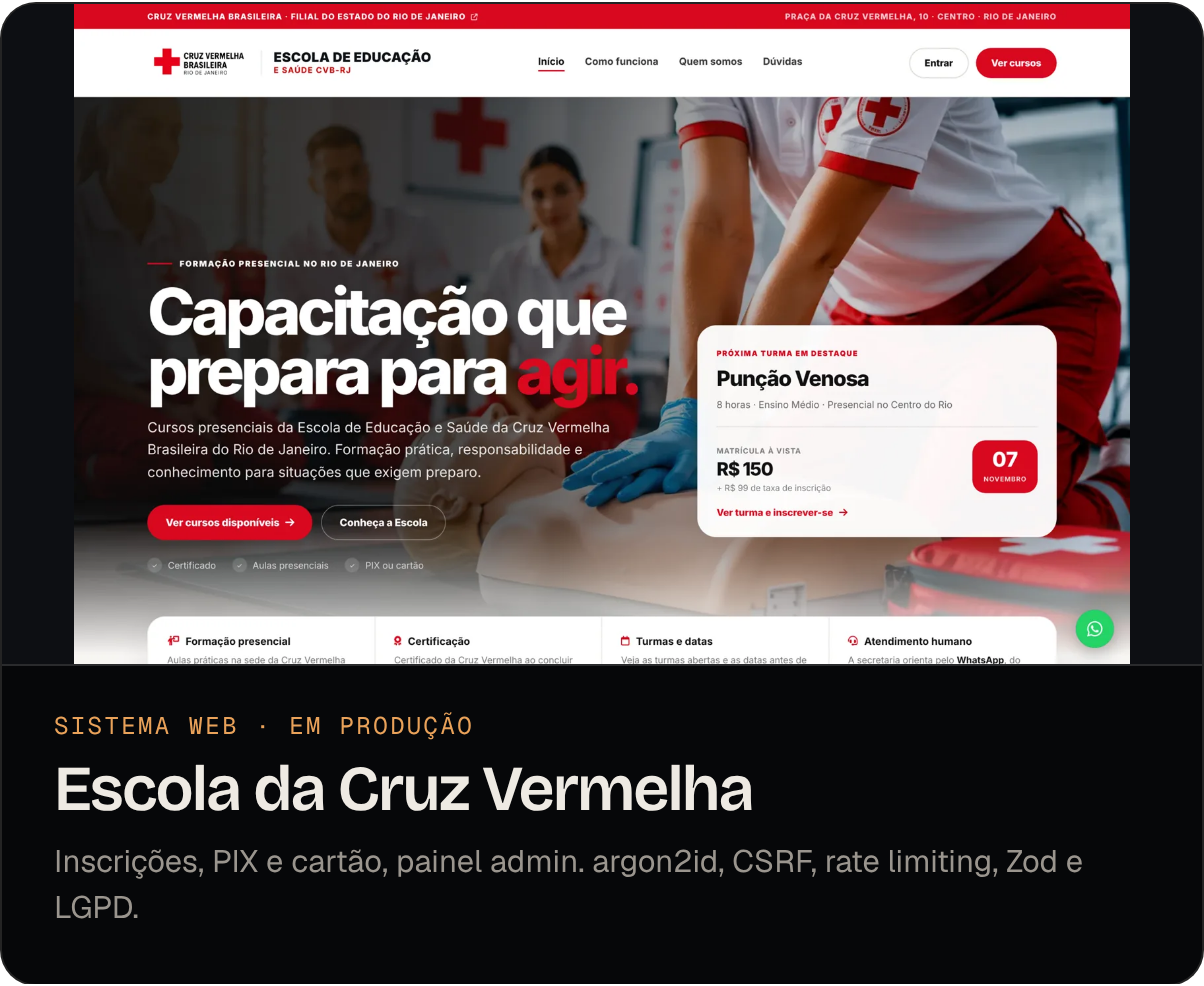
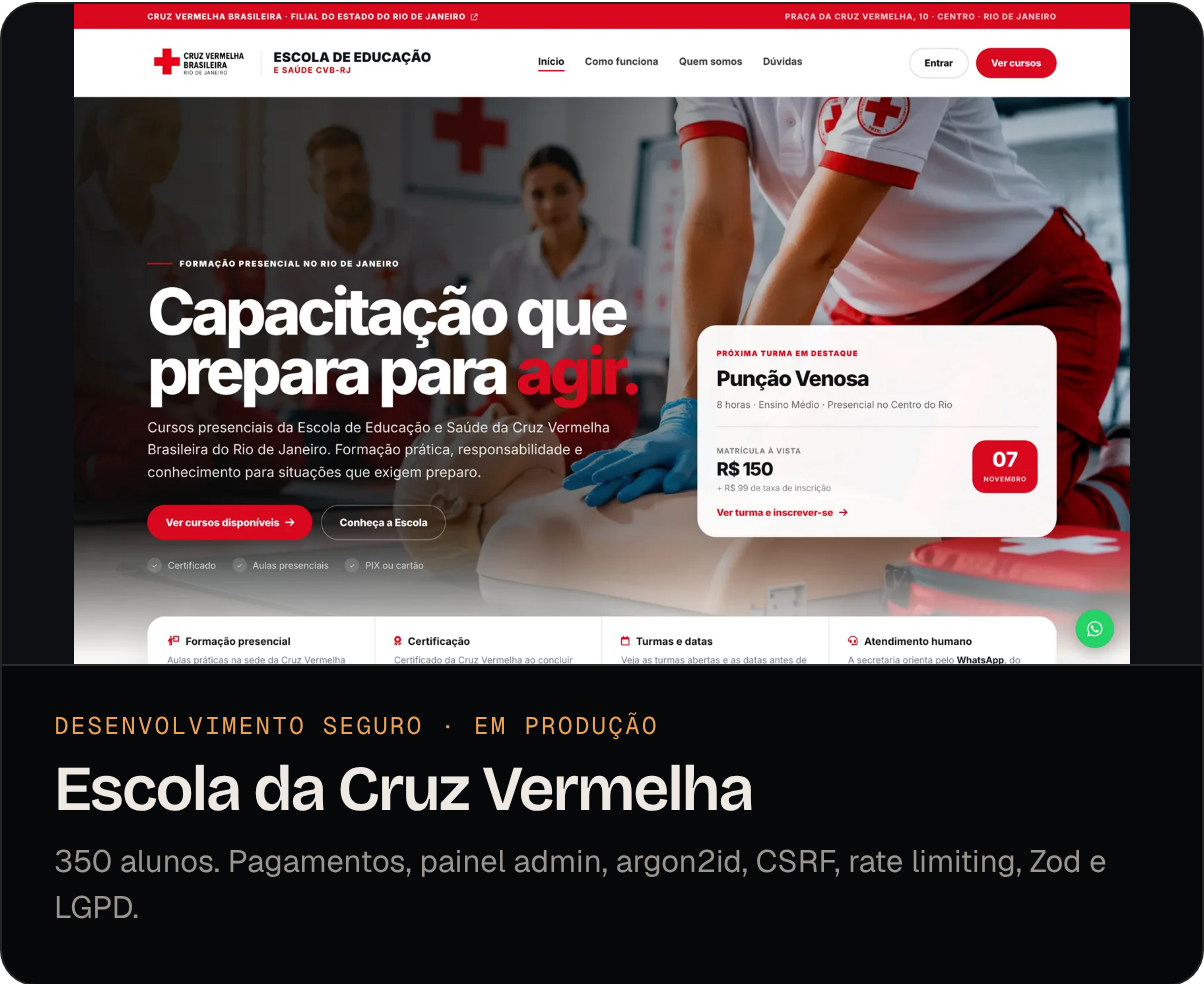
Perfil: 350 alunos e projetos ordenados por impacto para vagas de segurança
Claude-Session: https://claude.ai/code/session_01UDcAPx69xnKHua3GQitQTT

Changed region(s): [[0.0307, 0.8519, 0.9219, 0.9128], [0.0307, 0.7302, 0.5532, 0.7606]]

diff --git a/README.md b/README.md
@@ -13,21 +13,21 @@ Engenheiro de software formado na **University of Canberra**, com ênfase em cib
 
 **Procuro:** vaga de Analista de Segurança da Informação Jr. (SOC N1) ou de Infraestrutura e Segurança, com foco em monitoramento, triagem de eventos e hardening de Windows e Linux. Sigo aceitando projetos web como freelancer.
 
-<img alt="L2/L3: rede segmentada com IAM e CFTV IP · CVE: correlação automática via NVD/NIST · 4,2 s de latência no robô De Niro · EN: inglês fluente" src="assets/ui/numeros.png" width="100%">
+<img alt="350 alunos em sistema seguro em produção · L2/L3: rede segmentada com IAM e CFTV IP · CVE: correlação automática via NVD/NIST · EN: inglês fluente" src="assets/ui/numeros.png" width="100%">
 
 ## Projetos
 
 <p>
+  <a href="https://escola.cursoscruzvermelha.org"><img alt="Sistema da Escola da Cruz Vermelha: 350 alunos, desenvolvimento seguro em produção" src="assets/cards/cvb.png" width="49%"></a>
   <a href="https://github.com/matheusnsp/NetScan"><img alt="NetScan: reconhecimento para pentest em Python" src="assets/cards/netscan.png" width="49%"></a>
-  <a href="https://escola.cursoscruzvermelha.org"><img alt="Sistema da Escola da Cruz Vermelha, em produção" src="assets/cards/cvb.png" width="49%"></a>
 </p>
 <p>
   <a href="https://www.matheusnsp.com.br/A3_Report.pdf"><img alt="Rede corporativa segura com Windows, Linux e Cisco" src="assets/cards/infra.png" width="49%"></a>
   <a href="https://github.com/matheusnsp/Dash"><img alt="Dash: finanças pessoais com Row Level Security" src="assets/cards/dash.png" width="49%"></a>
 </p>
 <p>
-  <a href="https://www.catiapoggian.com"><img alt="Site da Catia Poggian" src="assets/cards/catia.png" width="49%"></a>
   <a href="https://github.com/matheusnsp/Portfolio"><img alt="Este portfólio, com retrato em partículas" src="assets/cards/portfolio.png" width="49%"></a>
+  <a href="https://www.catiapoggian.com"><img alt="Site da Catia Poggian" src="assets/cards/catia.png" width="49%"></a>
 </p>
 
 ## Trajetória
@@ -35,7 +35,7 @@ Engenheiro de software formado na **University of Canberra**, com ênfase em cib
 **Coordenador de Infraestrutura e Segurança (voluntário)** · Cruz Vermelha Brasileira, Rio de Janeiro · *fev 2026 – agora*
 - Auditoria do parque tecnológico, controle de ativos e sanitização segura de HDDs
 - Expansão e segmentação da rede (L2/L3), monitoramento remoto e CFTV IP com políticas de IAM
-- Sistema de gestão da Escola de Capacitação com desenvolvimento seguro e adequação à LGPD
+- Sistema de gestão da Escola de Capacitação, com desenvolvimento seguro e adequação à LGPD, em produção com 350 alunos
 
 **Estagiário de IA e Robótica** · University of Canberra, Austrália · *jul – nov 2024*
 - Plataforma com GPT-4, Whisper e ElevenLabs para um robô de teatro, latência de 7,5 s para 4,2 s
@@ -61,7 +61,7 @@ Software engineer who graduated from the **University of Canberra** with a focus
 
 **Looking for:** a Junior Information Security Analyst (SOC L1) or Infrastructure & Security role, focused on monitoring, event triage and Windows/Linux hardening. I also take on freelance web projects.
 
-- **Infrastructure & Security Coordinator (Volunteer)**, Brazilian Red Cross, Rio de Janeiro (Feb 2026 – present): hardware audit, secure HDD sanitization, L2/L3 segmentation, IAM policies and IP CCTV; built the training school's management system with argon2id, CSRF protection, rate limiting, Zod validation, role-based access and LGPD compliance.
+- **Infrastructure & Security Coordinator (Volunteer)**, Brazilian Red Cross, Rio de Janeiro (Feb 2026 – present): hardware audit, secure HDD sanitization, L2/L3 segmentation, IAM policies and IP CCTV; built the training school's management system with argon2id, CSRF protection, rate limiting, Zod validation, role-based access and LGPD compliance, now serving 350 students in production.
 - **AI & Robotics Intern**, University of Canberra (Jul – Nov 2024): generative-AI pipeline for a theatre robot, latency cut from 7.5 s to 4.2 s; showcased at Questacon.
 - **Education:** B. Software Engineering, University of Canberra (Dec 2024, GPA 5.67/7)
 - **Certifications:** CompTIA Security+ (SY0-701, in progress, Jan 2027) · Microsoft SC-900 (2025)
